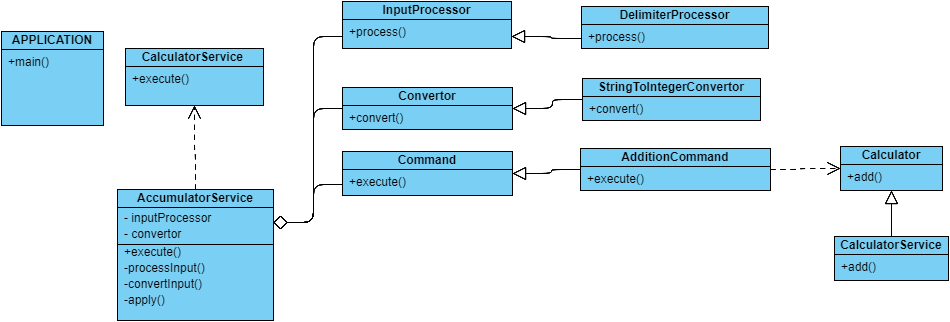
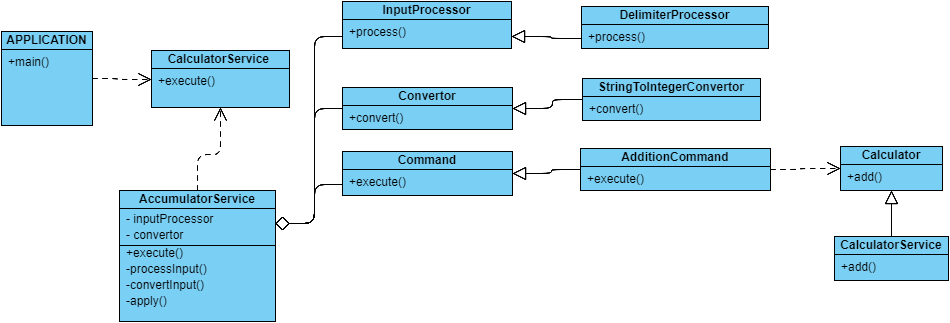
UML diagram fixes and readme touchup

diff --git a/src/main/java/com/ubs/addition/service/AccumalatorService.java b/src/main/java/com/ubs/addition/service/AccumalatorService.java
@@ -6,6 +6,13 @@ import com.ubs.addition.convertors.StringIntegerArrayConvertor;
 import com.ubs.addition.processor.InputProcessor;
 import com.ubs.addition.processor.impl.DelimiterProcessor;
 
+/***
+ *  this service is entry point for handling input and applying the trans
+ *
+ *    1. Process the input
+ *    2. Conver the input from String to Integer
+ *    3. Call accumulate and output
+ */
 public class AccumalatorService implements CalculatorService<String,Integer> {
 
     InputProcessor<String, String> inputProcessor;

diff --git a/src/main/java/com/ubs/addition/calculator/impl/CalculatorImpl.java b/src/main/java/com/ubs/addition/calculator/impl/CalculatorImpl.java
@@ -2,6 +2,11 @@ package com.ubs.addition.calculator.impl;
 
 import com.ubs.addition.calculator.Calculator;
 
+/**
+ *  Calculator operations
+ *    1.add
+ *    2.future operations
+ */
 public class CalculatorImpl implements Calculator {
 
     @Override

diff --git a/src/main/java/com/ubs/addition/convertors/StringIntegerArrayConvertor.java b/src/main/java/com/ubs/addition/convertors/StringIntegerArrayConvertor.java
@@ -3,7 +3,7 @@ package com.ubs.addition.convertors;
 import java.util.Arrays;
 
 /***
- *
+ *  This class converts array of String to array of Integer
  */
 public class StringIntegerArrayConvertor implements  Convertor<String,Integer>{
     @Override

diff --git a/src/test/java/com/ubs/addition/processor/InputProcessorTest.java b/src/test/java/com/ubs/addition/processor/InputProcessorTest.java
@@ -1,7 +1,6 @@
 package com.ubs.addition.processor;
 
 import com.ubs.addition.processor.impl.DelimiterProcessor;
-import org.junit.jupiter.api.BeforeAll;
 import org.junit.jupiter.api.BeforeEach;
 import org.junit.jupiter.api.Test;
 

diff --git a/src/test/java/com/ubs/addition/calculator/CalculatorTest.java b/src/test/java/com/ubs/addition/calculator/CalculatorTest.java
@@ -1,7 +1,6 @@
 package com.ubs.addition.calculator;
 
 import com.ubs.addition.calculator.impl.CalculatorImpl;
-import org.junit.jupiter.api.BeforeAll;
 import org.junit.jupiter.api.BeforeEach;
 import org.junit.jupiter.api.Test;
 

diff --git a/src/test/java/com/ubs/addition/service/AccumalatorServiceTest.java b/src/test/java/com/ubs/addition/service/AccumalatorServiceTest.java
@@ -1,6 +1,5 @@
 package com.ubs.addition.service;
 
-import com.ubs.addition.service.AccumalatorService;
 import org.junit.jupiter.api.BeforeEach;
 import org.junit.jupiter.api.Test;
 

diff --git a/Readme.md b/Readme.md
@@ -12,7 +12,7 @@
    * Build the maven application
     
    
-      mvn clean install
+    mvn clean install
        
        
    *  Run the application
